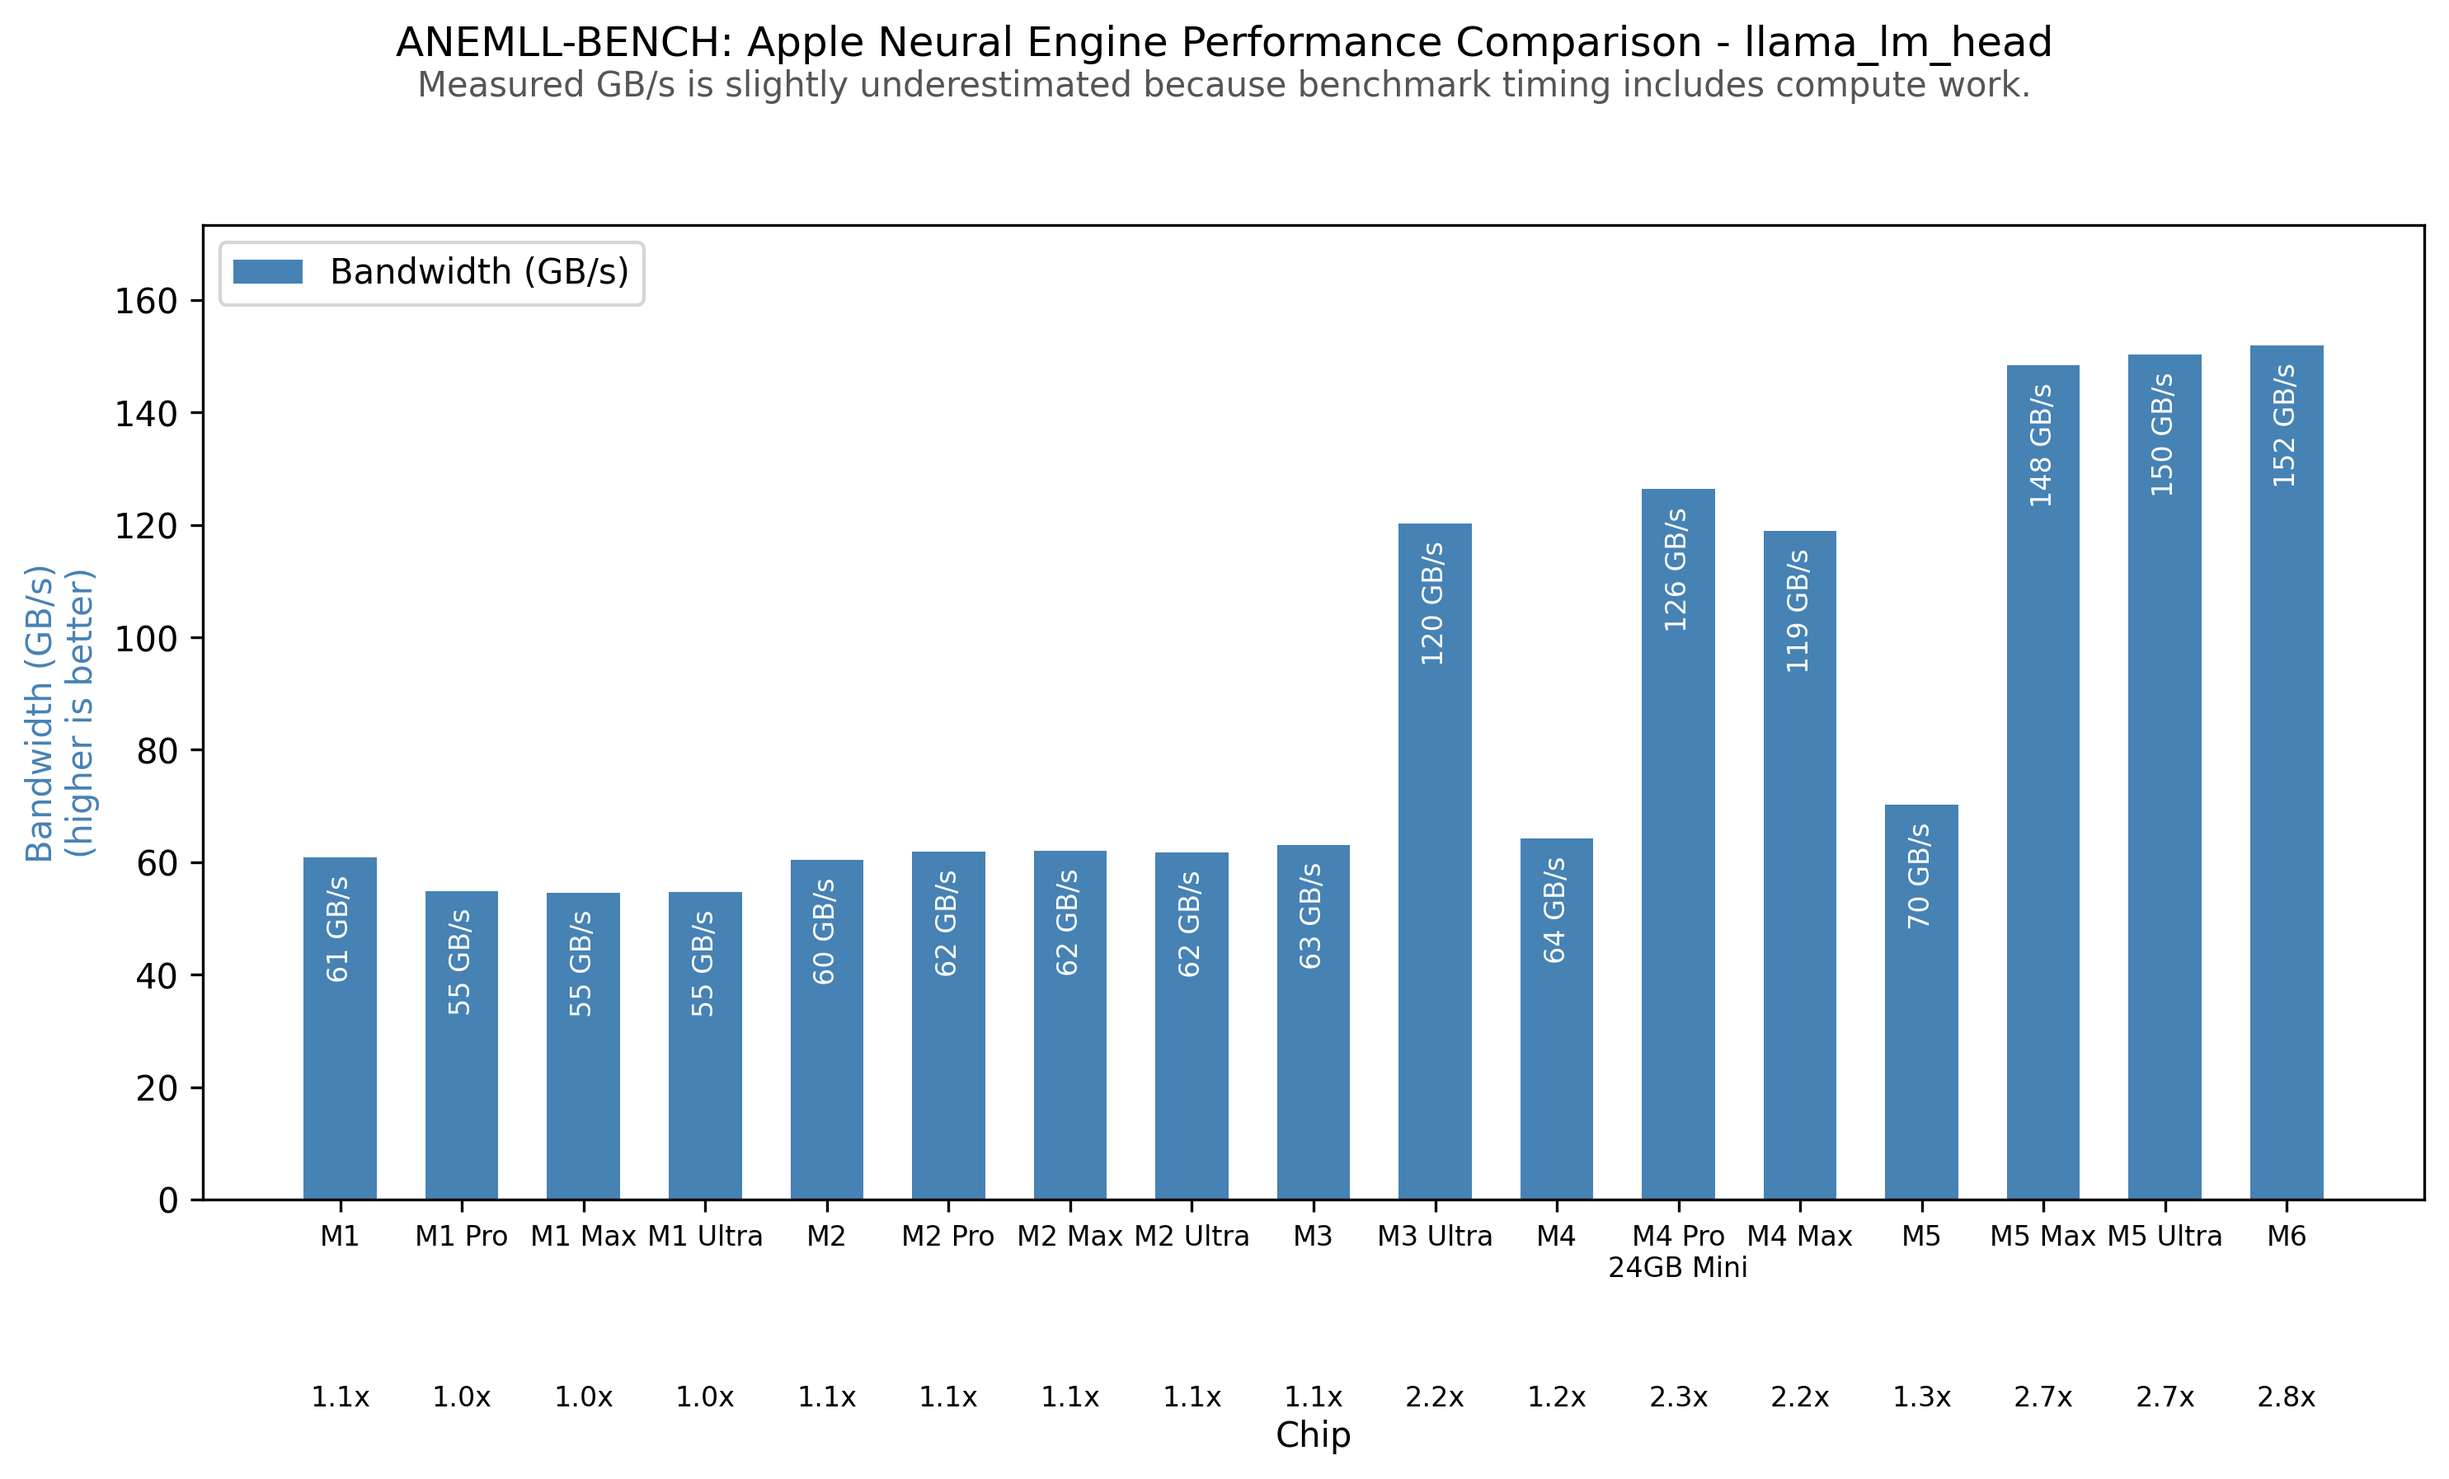
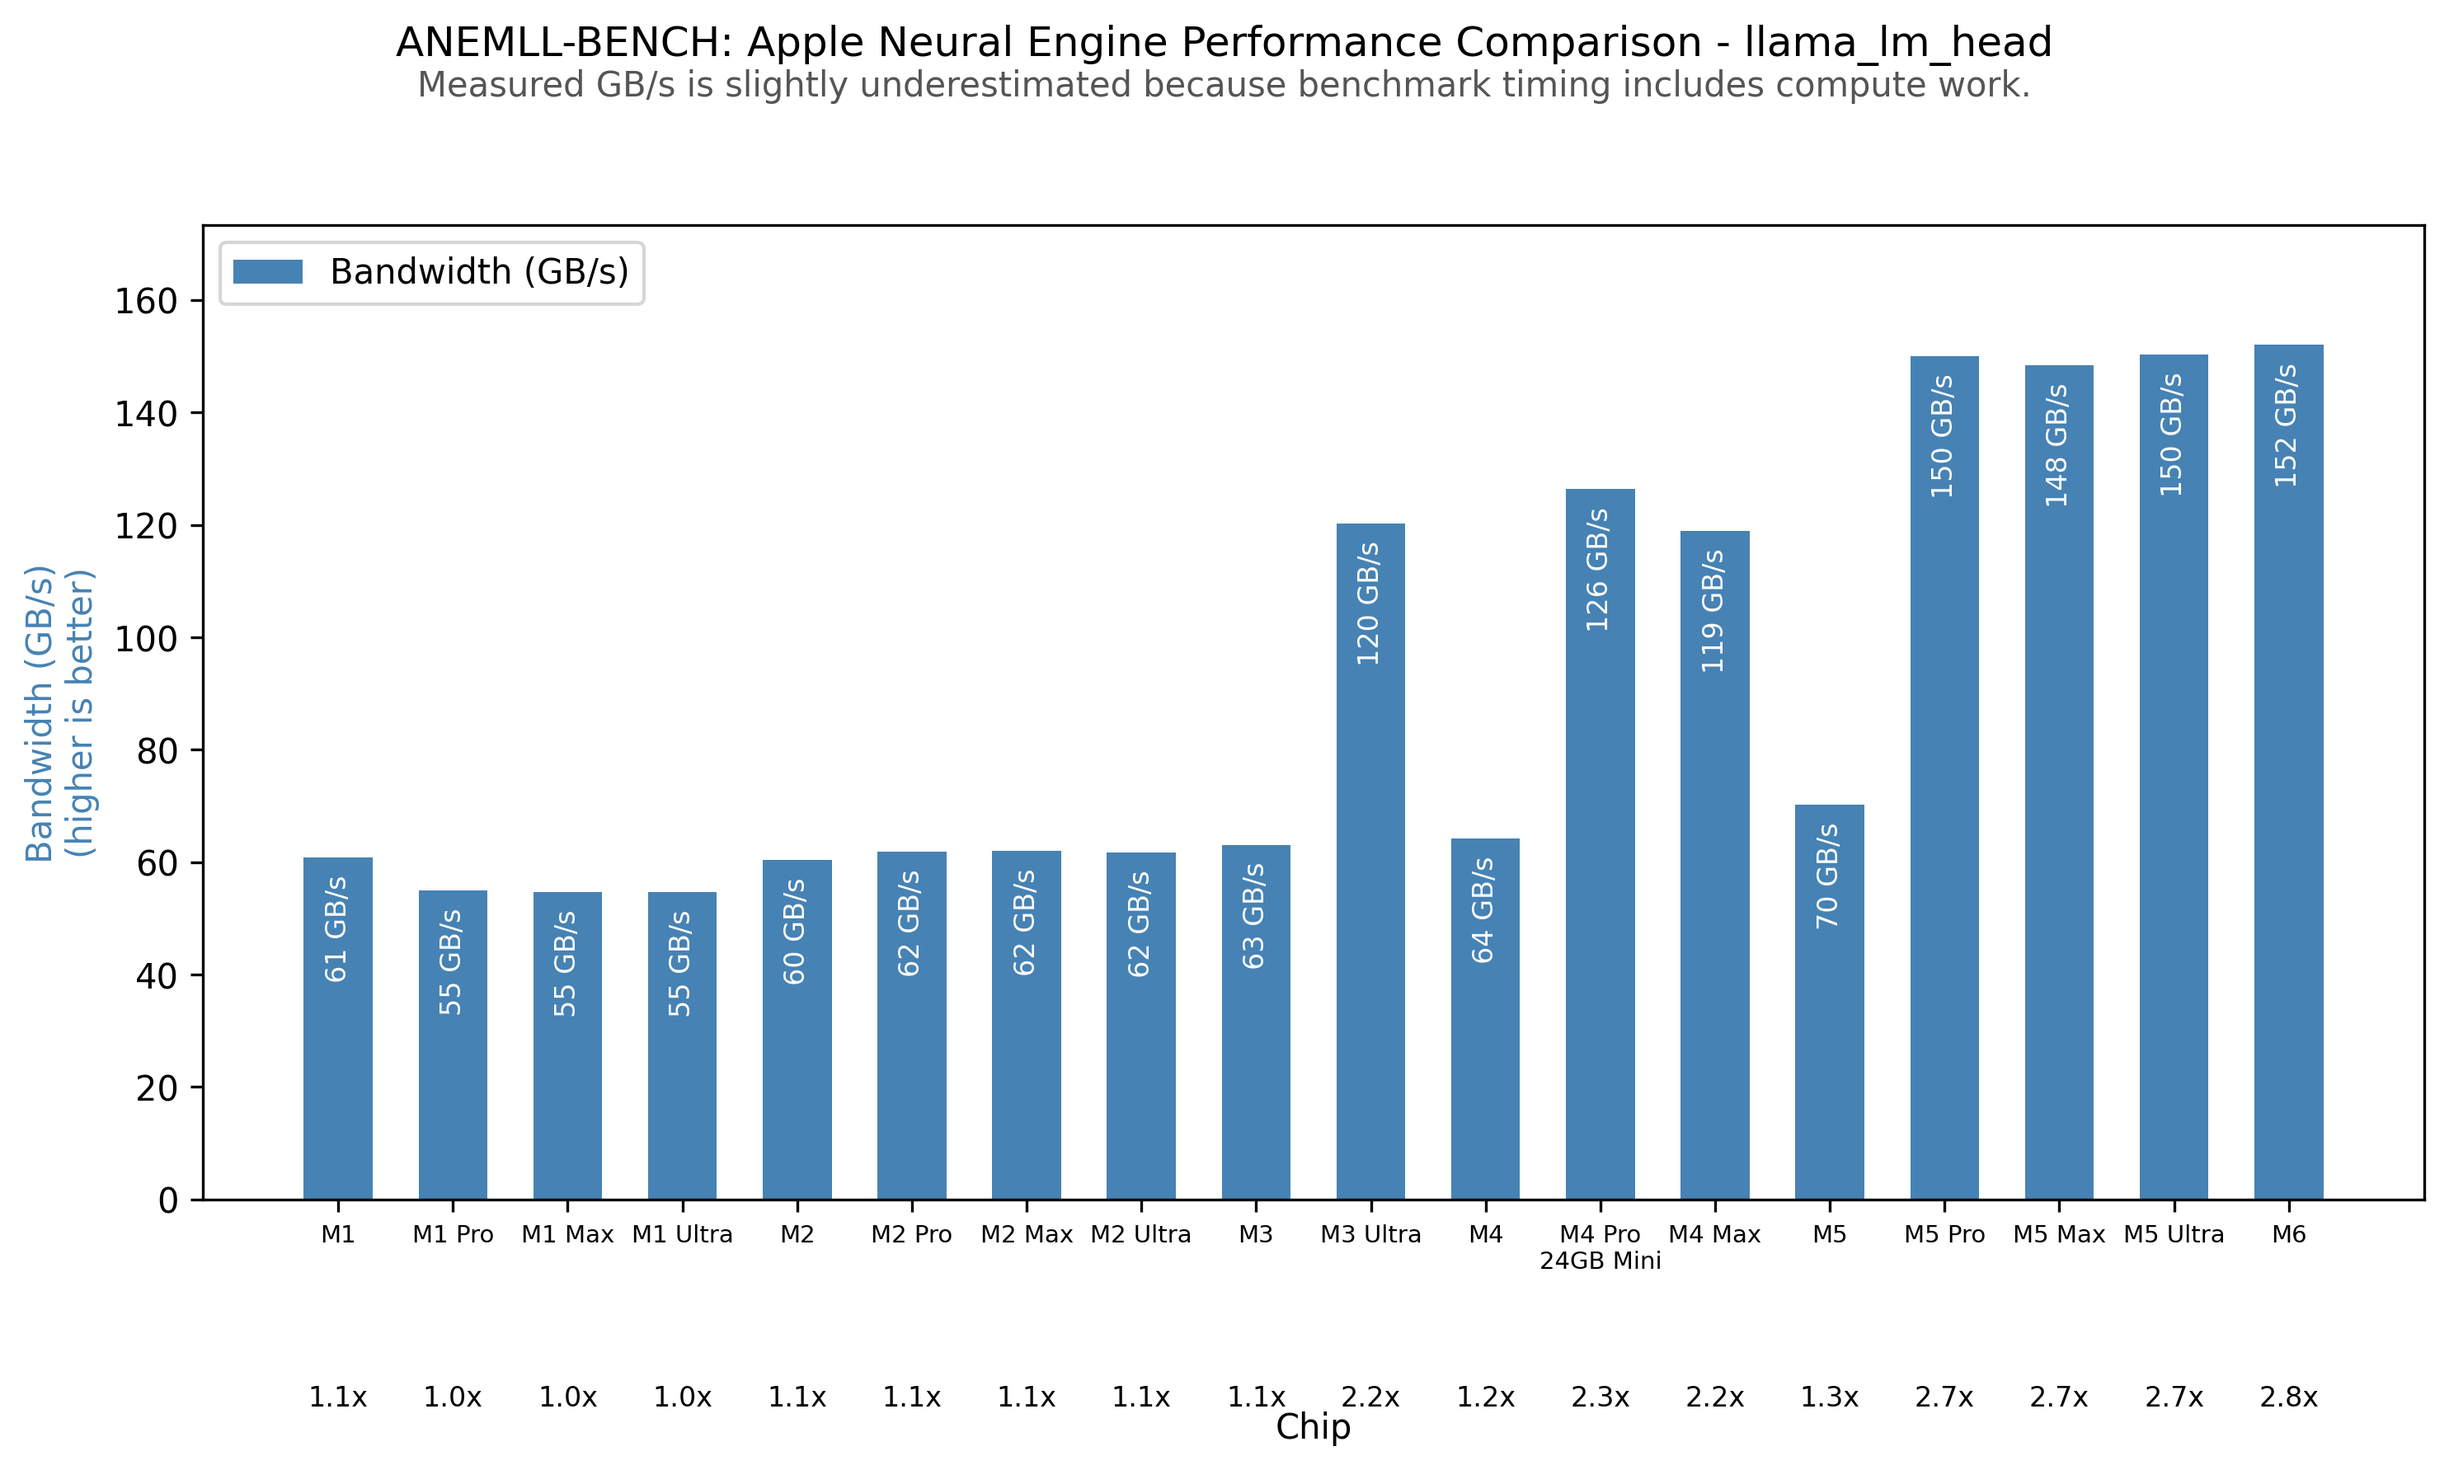
Add M5 Pro benchmark results

diff --git a/examples/plot_chip_comparison.py b/examples/plot_chip_comparison.py
@@ -28,9 +28,9 @@ def main():
     args = parser.parse_args()
 
     # Sample data from llama_lm_head model benchmarks
-    chips = ['M1', 'M1 Pro', 'M1 Max', 'M1 Ultra', 'M2', 'M2 Pro', 'M2 Max', 'M2 Ultra', 'M3', 'M3 Ultra', 'M4', 'M4 Pro\n24GB Mini', 'M4 Max', 'M5', 'M5 Max', 'M5 Ultra', 'M6']
-    bandwidth = [60.87, 54.90, 54.62, 54.72, 60.45, 61.93, 62.01, 61.68, 63.10, 120.22, 64.18, 126.36, 118.88, 70.21, 148.39, 150.33, 152.01]  # GB/s (llama_lm_head)
-    bandwidth_factor = ['1.1x', '1.0x', '1.0x', '1.0x', '1.1x', '1.1x', '1.1x', '1.1x', '1.1x', '2.2x', '1.2x', '2.3x', '2.2x', '1.3x', '2.7x', '2.7x', '2.8x']
+    chips = ['M1', 'M1 Pro', 'M1 Max', 'M1 Ultra', 'M2', 'M2 Pro', 'M2 Max', 'M2 Ultra', 'M3', 'M3 Ultra', 'M4', 'M4 Pro\n24GB Mini', 'M4 Max', 'M5', 'M5 Pro', 'M5 Max', 'M5 Ultra', 'M6']
+    bandwidth = [60.87, 54.90, 54.62, 54.72, 60.45, 61.93, 62.01, 61.68, 63.10, 120.22, 64.18, 126.36, 118.88, 70.21, 150.00, 148.39, 150.33, 152.01]  # GB/s (llama_lm_head)
+    bandwidth_factor = ['1.1x', '1.0x', '1.0x', '1.0x', '1.1x', '1.1x', '1.1x', '1.1x', '1.1x', '2.2x', '1.2x', '2.3x', '2.2x', '1.3x', '2.7x', '2.7x', '2.7x', '2.8x']
 
     # Option 1: Use plot_chip_comparison directly
     print("Demonstrating direct use of plot_chip_comparison function...\n")

diff --git a/anemll_bench/utils/visualization.py b/anemll_bench/utils/visualization.py
@@ -74,8 +74,9 @@ def plot_chip_comparison(
         )
 
     # Configure the x-axis
+    chip_label_fontsize = 7 if len(chips) > 17 else 8
     ax1.set_xticks(x)
-    ax1.set_xticklabels(chips, fontsize=8)
+    ax1.set_xticklabels(chips, fontsize=chip_label_fontsize)
     ax1.set_xlabel('Chip', labelpad=40)
 
     # Set y-axis label

diff --git a/Results.MD b/Results.MD
@@ -16,7 +16,7 @@ The cross-chip comparison below reports `llama_lm_head` memory bandwidth. A hist
 
 The chart below shows performance comparison across Apple Silicon generations for the `llama_lm_head` model:
 
-![Apple Silicon Performance Comparison](./reports/chip_comparison_llama_lm_head.png?v=20260923_m3u_v1)
+![Apple Silicon Performance Comparison](./reports/chip_comparison_llama_lm_head.png?v=20260924_m5p_v1)
 
 As shown in the visualization:
 - **M4 Series** chips demonstrate approximately 2.3x higher memory bandwidth compared to M1 series
@@ -24,7 +24,7 @@ As shown in the visualization:
 - **Base M2** has slightly better bandwidth than M1 series
 - The M2 Pro/Max/Ultra and M4 base model show modest improvements, while M3 Ultra and high-end M4 variants represent significant leaps in performance
 - **M5** shows a 1.3x memory-bandwidth improvement over M1 series
-- **M5 Max**, **M5 Ultra (36/80/256)**, and **M6 (Mac18,5, 32 GB)** are the three highest reported single-model bandwidth results, at 148.39 GB/s, 150.33 GB/s, and 152.01 GB/s respectively
+- **M5 Pro**, **M5 Max**, **M5 Ultra (36/80/256)**, and **M6 (Mac18,5, 32 GB)** are the four highest reported single-model bandwidth results, at 150.00 GB/s, 148.39 GB/s, 150.33 GB/s, and 152.01 GB/s respectively
 
 ## Detailed Benchmark Results
 
@@ -46,6 +46,7 @@ As shown in the visualization:
 | M4 Pro 24GB Mini| 126.36 | 2.3x |
 | M4 Max | 118.88 | 2.2x |
 | M5 | 70.21 | 1.3x |
+| M5 Pro | 150.00 | 2.7x |
 | M5 Max | 148.39 | 2.7x |
 | M5 Ultra (36C CPU / 80C GPU / 256 GB) | 150.33 | 2.7x |
 | M6 (Mac18,5, 32 GB) | 152.01 | 2.8x |
@@ -55,6 +56,7 @@ As shown in the visualization:
 | Chip | Inference Time (ms) | Model Size (MB) | Provenance |
 |------|--------------------:|----------------:|------------|
 | M5 Max | 7.08 | 1050.67 | Standalone benchmark report |
+| M5 Pro | 7.00 | Not stated | Contributor-supplied dual-model result; run count and warmup policy not stated |
 | M5 Ultra (36C CPU / 80C GPU / 256 GB) | 6.99 | Not stated | Contributor-supplied result; run count and warmup policy not stated |
 | M3 Ultra (Mac15,14, 96 GB) | 8.74 | 1050.67 | Standalone report, 2025-04-24; macOS 15.4.1 |
 | M6 (Mac18,5, 32 GB) | 6.91 | 1050.67 | Supplied benchmark report; run count and warmup policy not stated |
@@ -68,7 +70,7 @@ As shown in the visualization:
    - M3 Ultra and high-end M4 variants represent the first large bandwidth step in this dataset
    - The base M4 16GB shows modest improvements (~1.2x) over M1 series, significantly underperforming both M3 Ultra and higher-end M4 variants
    - **M5** reaches 70.21 GB/s, between the base M2/M3 tier and the higher-bandwidth variants
-   - **M5 Max**, **M5 Ultra**, and **M6** reach 148.39 GB/s, 150.33 GB/s, and 152.01 GB/s respectively; parallel/combined dual-model values are not used in the cross-chip table
+   - **M5 Pro**, **M5 Max**, **M5 Ultra**, and **M6** reach 150.00 GB/s, 148.39 GB/s, 150.33 GB/s, and 152.01 GB/s respectively; parallel/combined dual-model values are not used in the cross-chip table
 
 2. **Memory Bandwidth Efficiency**:
    - M3 Ultra and high-end M4 series show ~2.2-2.3x improvement in memory bandwidth utilization
@@ -76,7 +78,7 @@ As shown in the visualization:
    - This indicates that the substantial architectural improvements in the Neural Engine started with the M3 generation
    - Entry-level M4 16GB shows ~1.2x improvement, suggesting memory configuration or thermal constraints may be factors
    - M5 achieves 1.3x memory bandwidth improvement, falling between M2 and M3 Ultra performance levels
-   - M5 Max and M5 Ultra reach 2.7x bandwidth over M1 Pro, while the M6 (Mac18,5, 32 GB) report reaches 2.8x; the M5 Ultra and M6 reports are single reported results rather than the existing multi-run dataset
+   - M5 Pro, M5 Max, and M5 Ultra reach 2.7x bandwidth over M1 Pro, while the M6 (Mac18,5, 32 GB) report reaches 2.8x; the M5 Pro, M5 Ultra, and M6 reports are single reported results rather than the existing multi-run dataset
 
 3. **Latency Comparison Status**:
    - The historical M1–M5 latency values came from a `llama_lm_head_lut6` sample list while the surrounding table claimed the full `llama_lm_head`; they are intentionally not used for cross-chip factors or conclusions
@@ -88,6 +90,7 @@ As shown in the visualization:
 |------|---------------:|--------------------:|----------------:|
 | **M6 (32 GB)** | **152** | **170** | **89%** |
 | **M5 Ultra (36/80/256)** | **150** | **1200** | **13%** |
+| **M5 Pro** | **150** | **307** | **49%** |
 | **M5 Max** | **148** | **614** | **24%** |
 | M4 Pro | 126 | 273 | 46% |
 | M3 Ultra | 120 | 819 | 15% |
@@ -104,10 +107,10 @@ As shown in the visualization:
 | M1 Ultra | 55 | 800 | 7% |
 | M1 Max | 55 | 400 | 14% |
 
-The M6 (32 GB) report reaches 152.01 GB/s, or about 89% of its 170 GB/s unified-memory bandwidth. The M5 Ultra (36/80/256) contributor result reaches 150.33 GB/s, or about 13% of its 1.2 TB/s unified-memory bandwidth. The M3 Ultra report reaches 120.22 GB/s, or about 15% of its 819 GB/s unified-memory bandwidth. Because the reported timing includes compute work, these utilization values are slightly conservative.
+The M6 (32 GB) report reaches 152.01 GB/s, or about 89% of its 170 GB/s unified-memory bandwidth. The M5 Ultra (36/80/256) contributor result reaches 150.33 GB/s, or about 13% of its 1.2 TB/s unified-memory bandwidth. The M5 Pro contributor result reaches 150.00 GB/s, or about 49% of its 307 GB/s unified-memory bandwidth. The M3 Ultra report reaches 120.22 GB/s, or about 15% of its 819 GB/s unified-memory bandwidth. Because the reported timing includes compute work, these utilization values are slightly conservative.
 
 The ANE does not scale linearly with system memory bandwidth. Three clear performance tiers emerge:
-- **Tier 1 (~120-152 GB/s)**: M6 (Mac18,5), M5 Ultra, M5 Max, M4 Pro, M3 Ultra, M4 Max — architectural ANE improvements
+- **Tier 1 (~120-152 GB/s)**: M6 (Mac18,5), M5 Ultra, M5 Pro, M5 Max, M4 Pro, M3 Ultra, M4 Max — architectural ANE improvements
 - **Tier 2 (~60-70 GB/s)**: M5, M4, M3, M2 series, M1 — base ANE performance
 - **Tier 3 (~55 GB/s)**: M1 Pro/Max/Ultra — first-generation ANE with no scaling across variants
 
@@ -134,6 +137,18 @@ The M5 Max maintains nearly identical combined throughput (147.62 GB/s) when run
 | Combined (concurrent) | — | 150.07 |
 
 The M5 Ultra contributor result reports 150.07 GB/s combined throughput when both models run concurrently. That is effectively the same as its 150.33 GB/s single-model `llama_lm_head` result, so the dual-model value is documented separately and is not used in the cross-chip single-model chart.
+
+### Dual Model Benchmark Results (M5 Pro)
+
+| Configuration | Inference Time (ms) | Estimated Throughput (GB/s) |
+|--------------|--------------------:|----------------------------:|
+| llama_lm_head (solo) | 7.00 | 150 |
+| DeepHermes_lm_head (solo) | 7.00 | 150 |
+| llama_lm_head (concurrent) | 12.30 | — |
+| DeepHermes_lm_head (concurrent) | 14.00 | — |
+| Combined (concurrent) | — | 149 |
+
+The M5 Pro contributor result reports 149 GB/s combined throughput when both models run concurrently. That is effectively the same as the 150 GB/s single-model result, so the dual-model value is documented separately and is not used in the cross-chip single-model chart.
 
 ### Dual Model Benchmark Results (M3 Ultra, Mac15,14, 96 GB)
 

diff --git a/README.md b/README.md
@@ -36,7 +36,7 @@ ANEMLL-Bench is part on ANEMLL Open Source Project [anemll.com](https://anemll.c
 
 ## 📊 [View Benchmark Results](./Results.MD) 📊
 
-[![Apple Silicon Performance Comparison](./reports/chip_comparison_llama_lm_head.png?v=20260923_m3u_v1)](./Results.MD)
+[![Apple Silicon Performance Comparison](./reports/chip_comparison_llama_lm_head.png?v=20260924_m5p_v1)](./Results.MD)
 
 Check out our latest [benchmark results](./Results.MD) comparing performance across different Apple Silicon chips (M1 through M6 series).
 
@@ -46,6 +46,7 @@ Check out our latest [benchmark results](./Results.MD) comparing performance acr
 |------|---------------:|--------------------:|----------------:|
 | **M6 (32 GB)** | **152** | **170** | **89%** |
 | **M5 Ultra (36/80/256)** | **150** | **1200** | **13%** |
+| **M5 Pro** | **150** | **307** | **49%** |
 | **M5 Max** | **148** | **614** | **24%** |
 | M4 Pro | 126 | 273 | 46% |
 | M3 Ultra | 120 | 819 | 15% |
